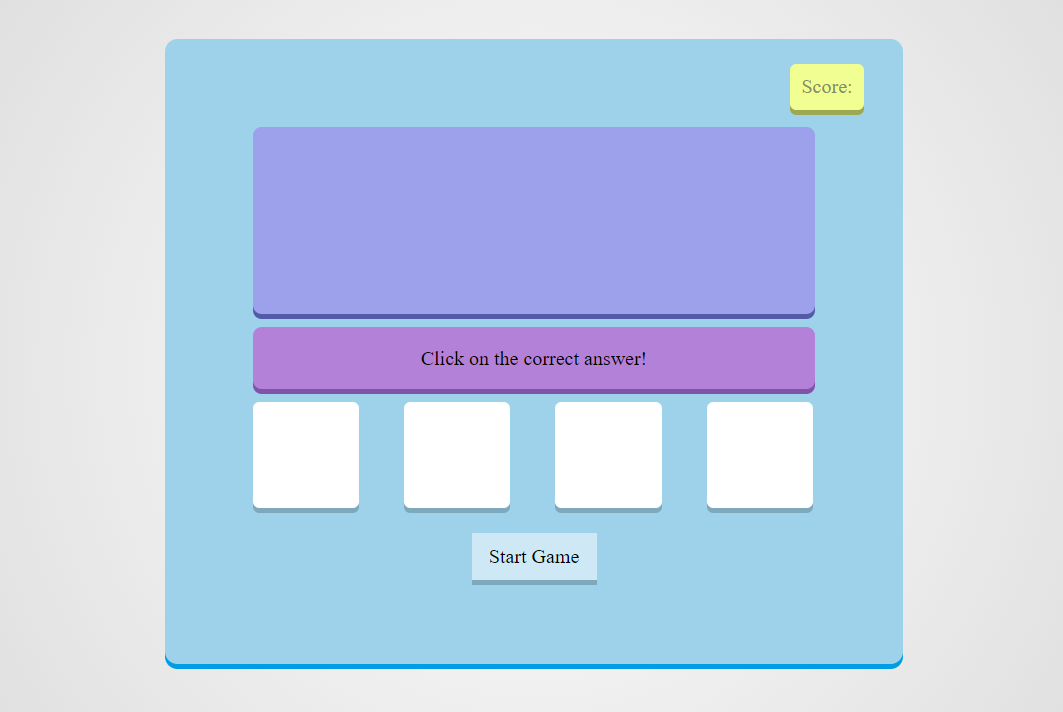
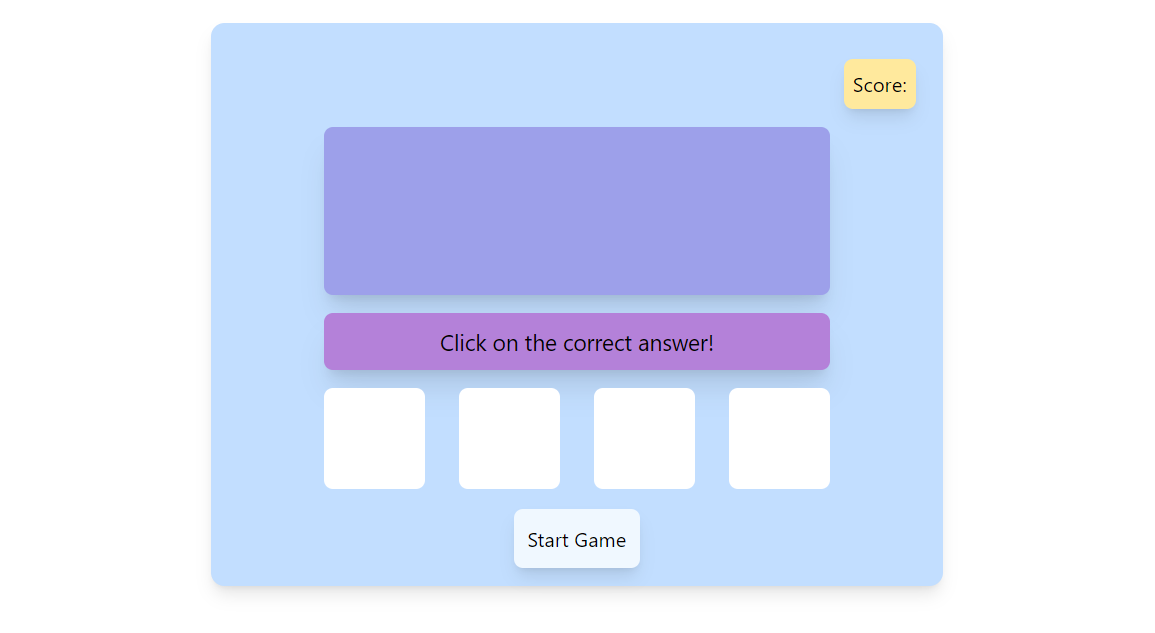
refactor: Completed UI for Maths-game

diff --git a/src/pages/games/Games.js b/src/pages/games/Games.js
@@ -15,11 +15,12 @@ export const Games = () => {
                             alt="Tic Tac Toe"
                         />
                     </Link>
-                        <div className="p-2 py-3">
-                            <Link to="/">
-                                <h5 className="mb-2 text-xl font-bold tracking-tight text-gray-900 dark:text-white">Tic Tac Toe</h5>
-                            </Link>
-                        </div>
+                    <hr />
+                    <div className="p-2 py-3">
+                        <Link to="/">
+                            <h5 className="mb-2 text-xl text-center font-bold tracking-tight text-gray-900 dark:text-white">Tic Tac Toe</h5>
+                        </Link>
+                    </div>
                 </div>
                 <div className="max-w-sm bg-white border border-gray-200 rounded-lg shadow dark:bg-gray-800 dark:border-gray-700 m-2">
                     <Link to="/maths-game" >
@@ -29,11 +30,12 @@ export const Games = () => {
                             alt="Maths Game"
                         />
                     </Link>
-                        <div className="p-2 py-3">
-                            <Link to="/">
-                                <h5 className="mb-2 text-xl font-bold tracking-tight text-gray-900 dark:text-white">Maths Game</h5>
-                            </Link>
-                        </div>
+                    <hr className=''/>
+                    <div className="p-2 py-3">
+                        <Link to="/">
+                            <h5 className="mb-2 text-xl text-center font-bold tracking-tight text-gray-900 dark:text-white">Maths Game</h5>
+                        </Link>
+                    </div>
                 </div>
             </div>
         </main>

diff --git a/src/pages/games/components/MathsGame.js b/src/pages/games/components/MathsGame.js
@@ -2,8 +2,30 @@ import React from 'react'
 
 export const MathsGame = () => {
   return (
-    <div>
-      
-    </div>
+    <main>
+      <div className='box-border p-6 rounded-xl mx-auto my-28 w-[650px] h-[500px] bg-primary-500 shadow-lg'>
+        <div className='flex flex-row justify-end my-2'>
+          <div id="score" className='bg-primary-300 p-2 rounded-lg shadow-lg text-lg'>Score: <span id="scoreValue"></span></div>
+        </div>
+        <div className='flex justify-center'>
+          <div id="question" className="bg-primary-50 text-center w-[450px] h-[150px] shadow-xl my-2 rounded-lg"></div>
+        </div>
+        <div className='flex justify-center'>
+          <div id="question" className="bg-primary-10 py-3 text-center w-[450px] h-[50px] shadow-xl my-2 rounded-lg text-xl">Click on the correct answer!</div>
+        </div>
+        <div className='flex justify-center'>
+          <div id="choices" className='flex justify-between w-[450px] h-[100px] my-2'>
+            <div id="box1" className="bg-white w-[90px] h-[90px] options box text-center rounded-lg"></div>
+            <div id="box2" className="bg-white w-[90px] h-[90px] options box text-center rounded-lg"></div>
+            <div id="box3" className="bg-white options w-[90px] h-[90px] box text-center rounded-lg"></div>
+            <div id="box4" className="bg-white options w-[90px] h-[90px] box text-center rounded-lg"></div>
+          </div>
+        </div>
+        <div className='flex justify-center'>
+          <button id="startstop" className="bg-primary-20 p-3 text-center rounded-lg shadow-lg text-lg">Start Game</button>
+        </div>
+        <div id="gameover" className="text-center"></div>
+      </div>
+    </main>
   )
 }

diff --git a/src/pages/essays/Essays.js b/src/pages/essays/Essays.js
@@ -5,7 +5,6 @@ import { EssayPills } from './components/EssayPills';
 
 export const Essays = () => {
     const { loading, error, essays } = useEssays();
-    // console.log(essays)
 
     const [currentEssay, setCurrentEssay] = useState(0);
 
@@ -27,7 +26,7 @@ export const Essays = () => {
         <main className='pt-10'>
             <div className="pt-5">
                 {
-                    <EssayPills />
+                    <EssayPills currentEssay={currentEssay} setCurrentEssay={setCurrentEssay} />
                 }
             </div>
             {
@@ -35,13 +34,13 @@ export const Essays = () => {
             }
             <div className="flex flex-row justify-between mt-10">
                 <button
-                    className="bg-primary-400 px-5 py-3 text-xl text-center rounded-lg"
+                    className="bg-primary-300 px-5 py-3 text-xl text-center rounded-lg"
                     onClick={() => prevEssay()}
                 >
                     Prev
                 </button>
                 <button
-                    className="bg-primary-400 px-5 py-3 text-xl text-center rounded-lg"
+                    className="bg-primary-300 px-5 py-3 text-xl text-center rounded-lg"
                     onClick={() => nextEssay()}
                 >
                     Next

diff --git a/src/pages/quiz/components/QuestionPill.js b/src/pages/quiz/components/QuestionPill.js
@@ -1,9 +1,23 @@
 import React from 'react'
 
-export const QuestionPill = ({ n }) => {
+export const QuestionPill = ({ n, flag, i, setCurrentQuestion }) => {
+
   return (
-    <div className='bg-primary-100 rounded-full inline p-2 lg:p-5 my-2 lg:my-5  lg:mr-10 text-md lg:text-xl cursor-pointer'>
-      Q{n}
-    </div>
+    <>
+      {
+        flag ?
+          <button 
+          onClick={() => setCurrentQuestion(i-1)}
+          className='bg-primary-400 rounded-full inline p-2 lg:p-5 my-2 lg:my-5  lg:mr-10 text-md lg:text-xl cursor-pointer'>
+            Q{n}
+          </button>
+          :
+          <button 
+          onClick={() => setCurrentQuestion(i-1)}
+          className='bg-primary-100 rounded-full inline p-2 lg:p-5 my-2 lg:my-5  lg:mr-10 text-md lg:text-xl cursor-pointer'>
+            Q{n}
+          </button>
+      }
+    </>
   )
 }

diff --git a/src/pages/quiz/components/QuestionPills.js b/src/pages/quiz/components/QuestionPills.js
@@ -1,14 +1,18 @@
-import React, { useEffect } from 'react'
+import React from 'react'
 import { QuestionPill } from './QuestionPill';
 
-export const QuestionPills = () => {
+export const QuestionPills = ({ currentQuestion, setCurrentQuestion }) => {
     const noq = [1, 2, 3, 4];
-
+    let i = 0;
+    
     return (
         <div className="flex flex-row justify-evenly lg:justify-start">
             {
                 noq.map(n => (
-                    <QuestionPill n={n} key={n}/>
+                    currentQuestion === i++ ?
+                    <QuestionPill n={n} key={n} flag={true} i={i} setCurrentQuestion={setCurrentQuestion}/>
+                    : 
+                    <QuestionPill n={n} key={n} flag={false} i={i} setCurrentQuestion={setCurrentQuestion} />
                 ))
             }
         </div>

diff --git a/src/pages/essays/components/EssayPill.js b/src/pages/essays/components/EssayPill.js
@@ -1,9 +1,23 @@
 import React from 'react'
 
-export const EssayPill = ({ n }) => {
+export const EssayPill = ({ n, flag, i, setCurrentEssay }) => {
   return (
-    <div className='bg-primary-100 rounded-full inline py-3 px-5 my-5 mr-10 text-xl cursor-pointer'>
-      {n}
-    </div>
+    <>
+      {
+        flag ?
+          <button
+            onClick={() => setCurrentEssay(i - 1)}
+            className='bg-primary-400 rounded-full inline py-3 px-5 my-5 mr-10 text-xl cursor-pointer'>
+            {n}
+          </button>
+          :
+          <button
+            onClick={() => setCurrentEssay(i - 1)}
+            className='bg-primary-500 rounded-full inline py-3 px-5 my-5 mr-10 text-xl cursor-pointer'>
+            {n}
+          </button>
+      }
+    </>
+
   )
 }

diff --git a/src/pages/essays/components/EssayPills.js b/src/pages/essays/components/EssayPills.js
@@ -1,14 +1,18 @@
 import React from 'react'
 import { EssayPill } from './EssayPill';
 
-export const EssayPills = () => {
+export const EssayPills = ({ currentEssay, setCurrentEssay }) => {
     const noe = [1, 2, 3, 4, 5, 6, 7, 8, 9, 10];
+    let i = 0;
 
     return (
         <div className="flex flex-row justify-start">
             {
                 noe.map(n => (
-                    <EssayPill n={n} key={n}/>
+                    currentEssay === i++ ?
+                        <EssayPill n={n} key={n} i={i} flag={true} setCurrentEssay={setCurrentEssay} />
+                        :
+                        <EssayPill n={n} key={n} i={i} flag={false} setCurrentEssay={setCurrentEssay}/>
                 ))
             }
         </div>

diff --git a/src/pages/essays/components/Essay.js b/src/pages/essays/components/Essay.js
@@ -9,8 +9,8 @@ export const Essay = ({ essay }) => {
             {
                 essay &&
                 <div>
-                    <h5 className='bg-primary-400 my-5 text-center text-3xl p-3 rounded-lg games-font'>{essay.title}</h5>
-                    <div className='bg-primary-600 p-5'>
+                    <h5 className='bg-primary-300 my-5 text-center text-3xl p-3 rounded-lg games-font'>{essay.title}</h5>
+                    <div className='bg-primary-50 p-5'>
                         {
                             essay.points[0].map(point => (
                                 <Point point={point} />

diff --git a/src/pages/home/components/FeatureCard.js b/src/pages/home/components/FeatureCard.js
@@ -24,7 +24,7 @@ export const FeatureCard = ({ feature }) => {
             } 
             {
                 featureTitle === "Essays" &&
-                <Link to="/essays" className="flex flex-col justify-between bg-primary-50 rounded-lg shadow lg:flex-row">
+                <Link to="/essays" className="flex flex-col justify-between bg-primary-500 rounded-lg shadow lg:flex-row">
                     <div className="flex flex-col p-3 lg:p-5 lg:w-3/6">
                         <h5 className="lg:mb-2 text-xl lg:text-4xl font-bold tracking-tight text-gray-900">{feature.title}</h5>
                     </div>

diff --git a/src/pages/quiz/Quiz.js b/src/pages/quiz/Quiz.js
@@ -136,10 +136,10 @@ export function Quiz() {
     <main>
       <div className="pt-2 lg:pt-5">
         {
-          <QuestionPills />
+          <QuestionPills currentQuestion={currentQuestion} setCurrentQuestion={setCurrentQuestion}/>
         }
       </div>
-      <div className="flex flex-row justify-center lg:justify-around mx-5 lg:mx-0 py-2 lg:py-10 my-2 lg:my-5 items-center">
+      <div className="flex flex-row justify-center lg:justify-around mx-5 lg:mx-0 py-2 lg:py-5 my-2 lg:my-3 items-center">
           {
               <Question question={questions[currentQuestion]} />
           }

diff --git a/tailwind.config.js b/tailwind.config.js
@@ -4,7 +4,9 @@ module.exports = {
     extend: {
       colors: {
         primary: {
-          50: '#C2DEFF',
+          10: '#B481D9',
+          20: '#F0F8FF',
+          50: '#9DA0EA',
           100: '#FAADAD',
           200: '#E4C9F9',
           300: '#FFE99D',
